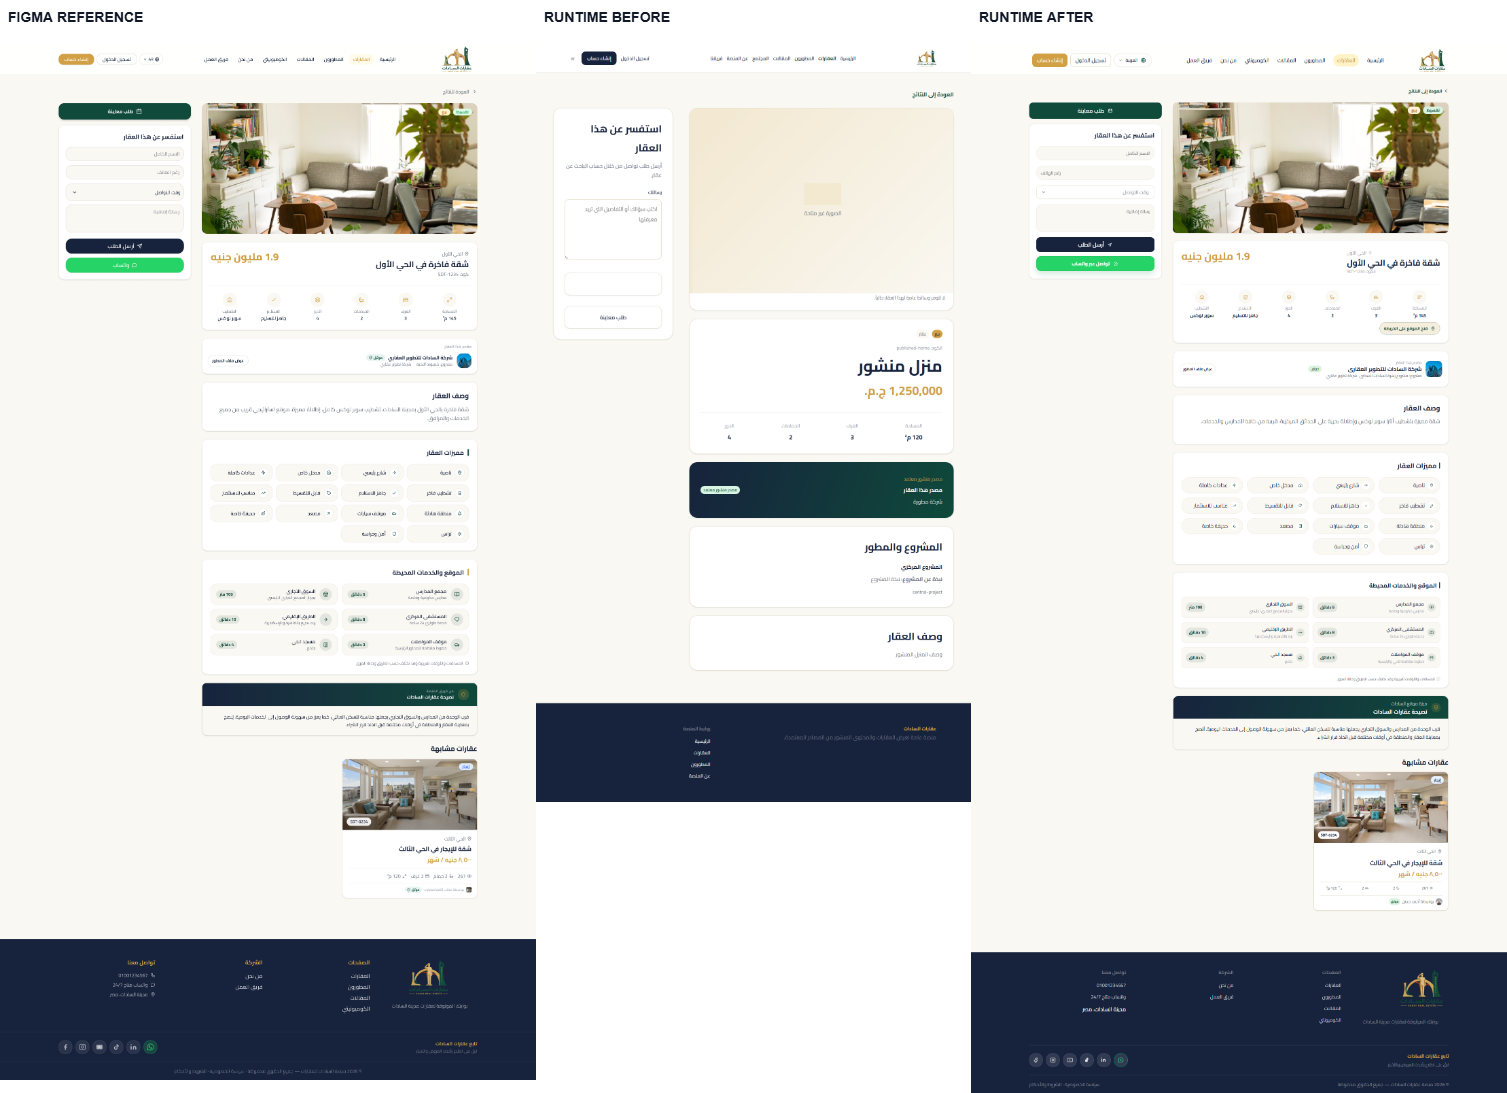
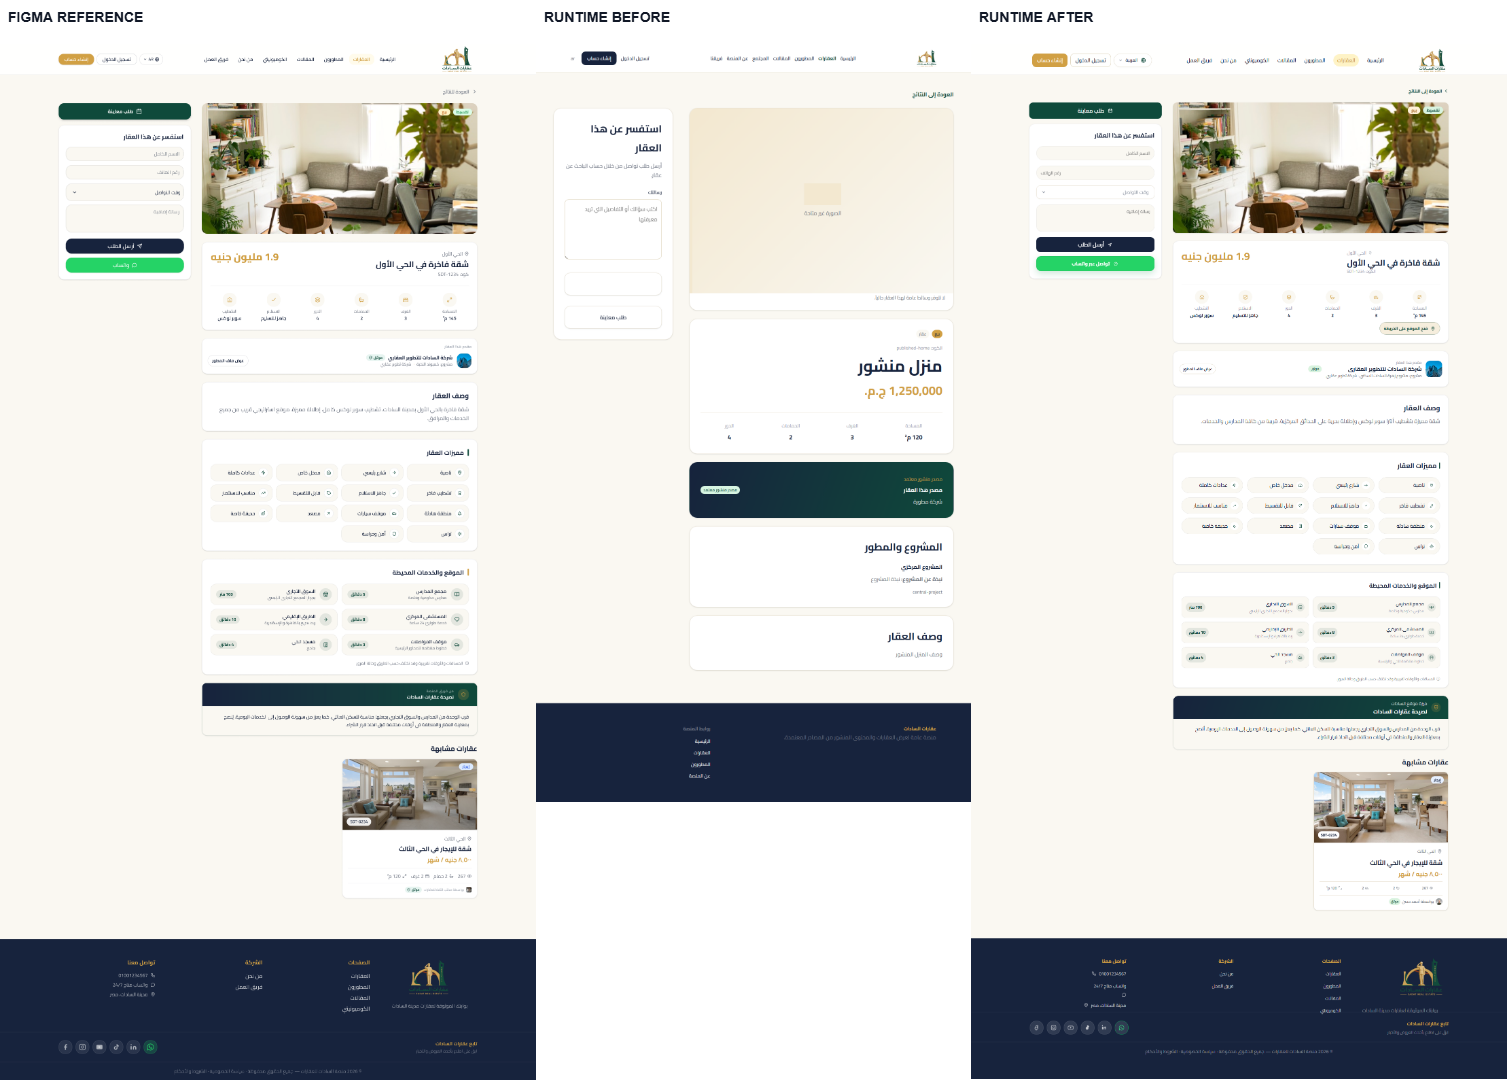
Refactor footer styles and update visual metrics for PUB-02 and PUB-03 screens

diff --git a/docs/quality/ALL_PAGES_CURRENT_AR.html b/docs/quality/ALL_PAGES_CURRENT_AR.html
@@ -6,7 +6,7 @@
 <h1>تقرير كل الصفحات — آخر حالة مثبتة</h1>
 <p>6 سبتمبر 2026 · 131 شاشة/حالة. المرجع البصري المعتمد هو ملف Figma <code>Odl1Epn2u6lIEuIMmABT7o</code>، ودليل المستخدم مرجع للآلية مع اعتماد البريد الإلكتروني وOTP بدل التسجيل القديم بالهاتف.</p>
 <section><h2>الخلاصة بالأرقام</h2><div class="cards">
-<div class="card"><strong>131</strong>إجمالي الشاشات/الحالات المسجلة</div><div class="card"><strong>1/131</strong>نسب Figma الحالية المقاسة للديسكتوب</div><div class="card"><strong>0/131</strong>نسب Figma الحالية المقاسة للريسبونسيف</div><div class="card"><strong>72/72</strong>فحص صفحات Public كاملًا + 72/72 للفوتر</div></div>
+<div class="card"><strong>131</strong>إجمالي الشاشات/الحالات المسجلة</div><div class="card"><strong>2/131</strong>نسب Figma الحالية المقاسة للديسكتوب</div><div class="card"><strong>0/131</strong>نسب Figma الحالية المقاسة للريسبونسيف</div><div class="card"><strong>72/72</strong>فحص صفحات Public كاملًا + 72/72 للفوتر</div></div>
 <p class="warn"><strong>لا توجد حتى الآن نسبة مطابقة حديثة موثوقة للصفحات الكاملة؛ «غير مقاسة» لا تعني 0% ولا 100%.</strong> القياسات التاريخية تعرض فرقًا قديمًا فقط، ولا يصح تحويلها إلى نسبة حالية بطرحها من 100.</p><p>public: 12 · auth: 19 · seeker: 10 · provider: 24 · admin: 66</p></section>
 <section><h2>تحديث الفوتر العام PUB-01 إلى PUB-12</h2><p class="ok"><strong>تم إصلاح الفوتر المشترك والتحقق منه على كل صفحات Public الاثنتي عشرة.</strong></p>
 <p>طابق التنفيذ بنية عقدتي Figma: الديسكتوب <code>6017:11365</code> والموبايل <code>6129:7924</code> داخل الشاشة <code>6017:110792</code>. أُصلح ترتيب RTL، وتقسيم الأعمدة 4/2/1 للديسكتوب/التابلت/الموبايل، وصف المتابعة والحقوق، والروابط الحافظة للغة، وأيقونات التواصل والنسخة المختصرة للموبايل.</p><p>72/72 Playwright cases passed across 12 public routes, AR/EN and widths 1440/768/390. No horizontal overflow, broken footer images, locale loss, browser errors or structural mismatches. 12/12 focused component tests, targeted lint, diff check, full build and runtime smoke passed.</p>
@@ -24,11 +24,11 @@
 </tr><tr data-surface="public">
   <td><strong>PUB-02</strong><br>قائمة العقارات</td>
   <td><code>/properties</code></td>
+  <td>86.9774%</td>
   <td>غير مقاسة حاليًا</td>
-  <td>غير مقاسة حاليًا</td>
-  <td>12.7013% اختلاف تاريخي — same-width source/runtime canvas comparison over the overlapping document height</td>
-  <td>خدمات موجودة؛ smoke للقوائم ناجح؛ الرحلة الخاصة بهذه الصفحة ليست مدققة بالكامل<br><small>اكتمال الرحلة على الإنتاج غير مثبت إلا في حدود الدليل المذكور.</small></td>
-  <td>مطلوب في التصميم؛ لا تتوفر نسبة حديثة موحدة لكل المقاسات — الفوتر المشترك فقط: ناجح ضمن 72/72 حالة على 12 صفحة ولغتين وثلاثة مقاسات؛ لا يمثل قياس الصفحة كاملة.</td>
+  <td>13.0226% اختلاف تاريخي — same-width source/runtime canvas comparison over the overlapping document height</td>
+  <td>قياس ديسكتوب حديث بتاريخ 6 سبتمبر على عرض 1577px بعد استعادة فراغ 40px الموثق قبل الفوتر: أبعاد الصفحة 1577×1981 مطابقة، واتفاق البكسلات المادي 86.9774% وفرق 13.0226%. الفروق الباقية أساسًا في رسومات الفئات والصور الرمزية غير المطابقة للأصول المرجعية.<br><small>اكتمال الرحلة على الإنتاج غير مثبت إلا في حدود الدليل المذكور.</small></td>
+  <td>تشغيل الصفحة ضمن 72/72 حالة Public ناجح عبر اللغتين والمقاسات الثلاثة، وشارات الكروت محصورة داخلها؛ لا تتوفر بعد نسبة Figma موحدة للتابلت والموبايل — الفوتر المشترك فقط: ناجح ضمن 72/72 حالة على 12 صفحة ولغتين وثلاثة مقاسات؛ لا يمثل قياس الصفحة كاملة.</td>
 </tr><tr data-surface="public">
   <td><strong>PUB-03</strong><br>تفاصيل العقار</td>
   <td><code>/properties/:slug</code></td>

diff --git a/apps/web/src/features/public/components.tsx b/apps/web/src/features/public/components.tsx
@@ -451,7 +451,7 @@ const PUBLIC_SITE_FOOTER_RESPONSIVE_CSS = `
 }
 @media (min-width:1051px){
 .public-homepage__footer.public-site-footer{block-size:25.875rem;min-block-size:25.875rem;margin-block-start:5rem}
-.public-site-footer__main{grid-template-columns:repeat(4,minmax(0,1fr));column-gap:2rem;row-gap:0;block-size:13.5rem;padding:3.5rem 1.5rem}
+.public-site-footer__main{grid-template-columns:repeat(4,minmax(0,1fr));column-gap:2rem;row-gap:0;block-size:13.5rem;padding:1.5rem 3.5rem 1.5rem}
 .public-site-footer__logo{inline-size:10rem;block-size:7.0625rem;margin-block-end:1rem}
 .public-site-footer__brand{inline-size:100%;max-inline-size:none}
 .public-site-footer__brand>p{inline-size:min(16.625rem,100%);margin-inline:auto;padding-block-start:1rem;font-size:.875rem;line-height:1.625;text-align:center}

diff --git a/apps/web/src/features/public/listing.css b/apps/web/src/features/public/listing.css
@@ -597,8 +597,7 @@
     grid-template-columns: 288px 920px;
     gap: 24px;
     box-sizing: border-box;
-    margin-block-end: 40px;
-    padding: 24px 0 0;
+    padding: 24px 0 40px;
   }
 
   .public-property-listing__filters {
